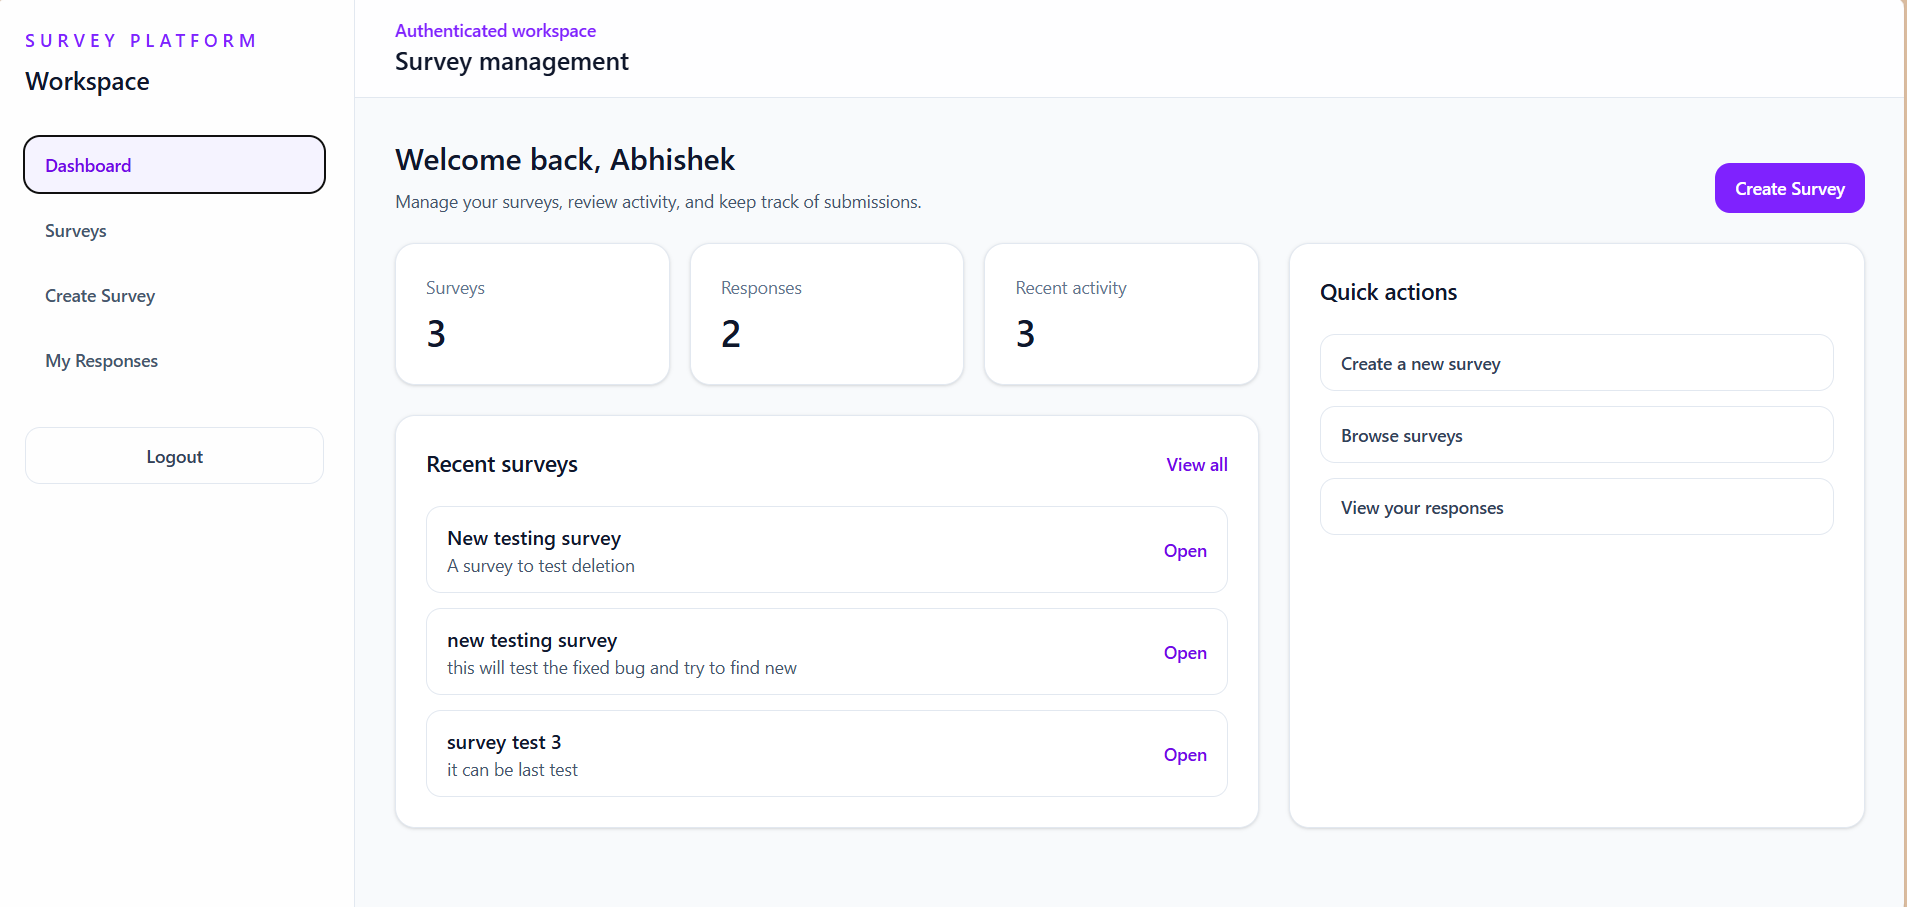
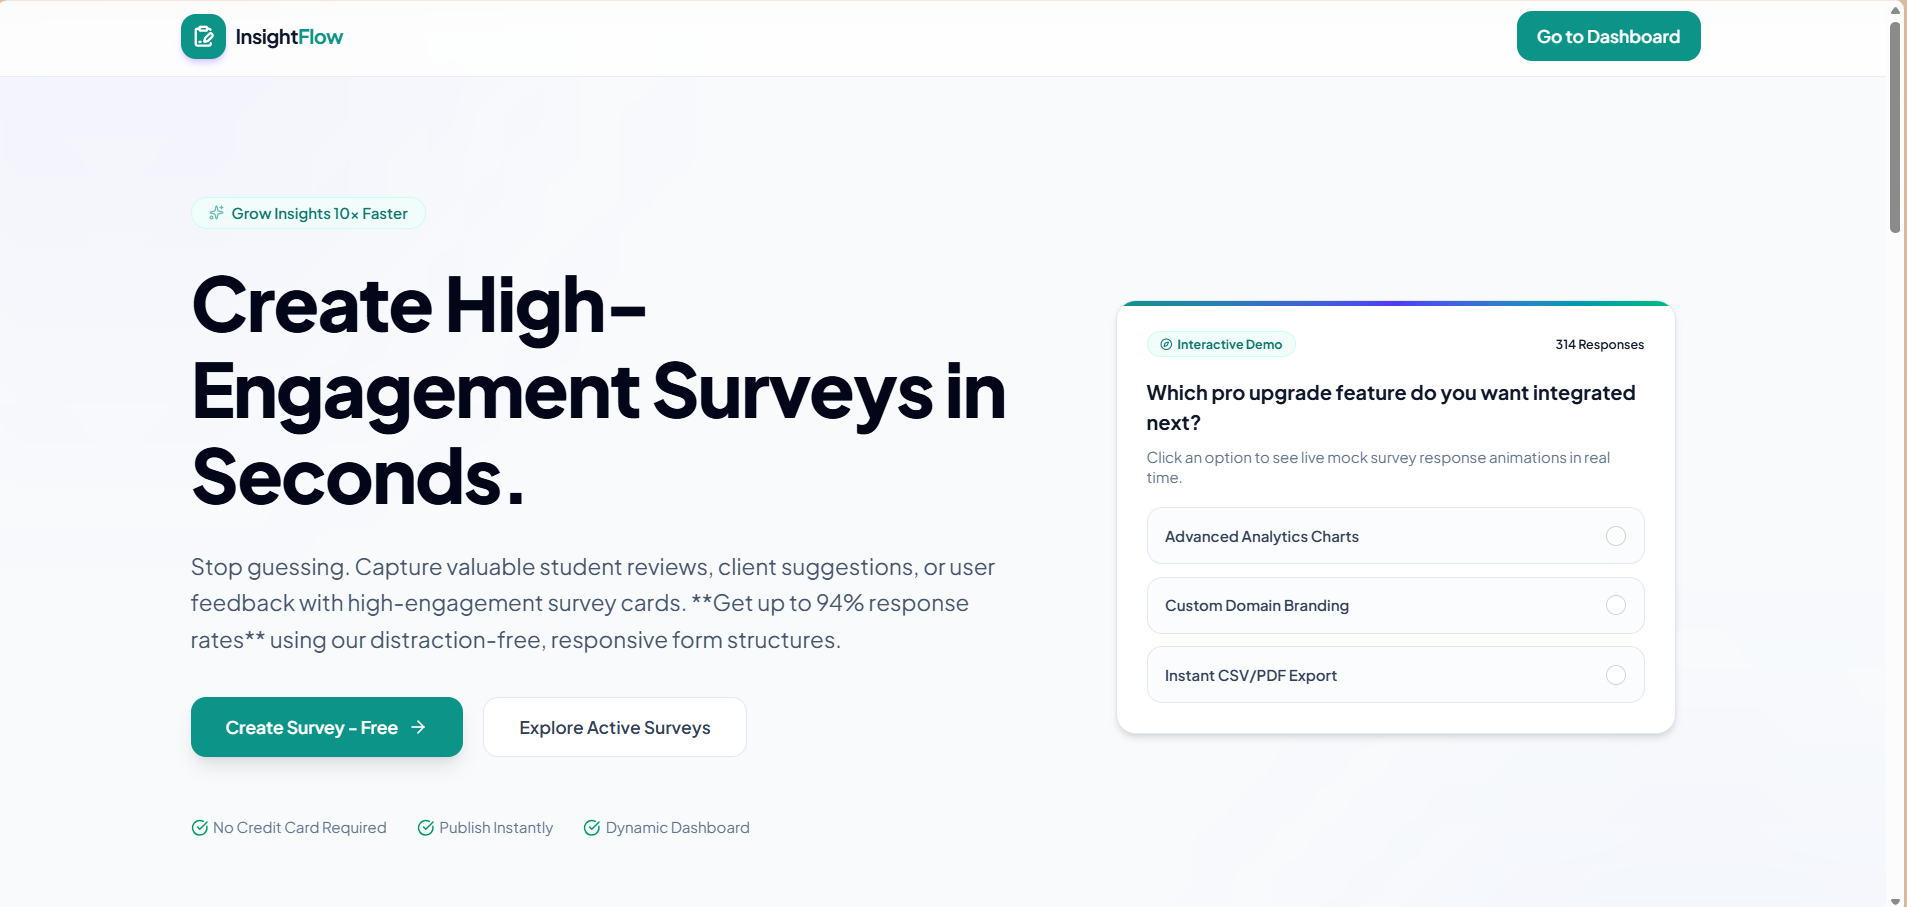
minor bug fixes

diff --git a/client/src/pages/organisation/ProfilePage.jsx b/client/src/pages/organisation/ProfilePage.jsx
@@ -5,6 +5,8 @@ import Input from '../../components/common/Input.jsx';
 import Card from '../../components/common/Card.jsx';
 import PageHeader from '../../components/common/PageHeader.jsx';
 import { User, Mail, Shield, Award, BarChart3, LogOut, CheckCircle } from 'lucide-react';
+import { getSurveys } from '../../services/surveyService.js';
+import { getMyResponses } from '../../services/responseService.js';
 
 const ProfilePage = () => {
   const { user, logout } = useAuth();
@@ -20,14 +22,28 @@ const ProfilePage = () => {
   const [passError, setPassError] = useState('');
 
   useEffect(() => {
-    // Load local stats
-    const surveys = JSON.parse(localStorage.getItem('mock_db_surveys') || '[]');
-    const responses = JSON.parse(localStorage.getItem('mock_db_responses') || '[]');
+    const fetchStats = async () => {
+      try {
+        const [surveyData, responseData] = await Promise.all([
+          getSurveys(),
+          getMyResponses()
+        ]);
+        
+        const surveysList = surveyData.surveys || [];
+        const responsesList = responseData.responses || [];
+        
+        const createdCount = surveysList.filter(s => s.createdBy === user?.id || s.createdBy === 'usr_default123').length;
+        const completedCount = responsesList.length;
+        
+        setStats({ created: createdCount, completed: completedCount });
+      } catch (err) {
+        console.error('Error fetching profile stats:', err);
+      }
+    };
     
-    const createdCount = surveys.filter(s => s.createdBy === user?.id || s.createdBy === 'usr_default123').length;
-    const completedCount = responses.filter(r => r.respondent === user?.id).length;
-    
-    setStats({ created: createdCount, completed: completedCount });
+    if (user) {
+      fetchStats();
+    }
   }, [user]);
 
   const handleUpdateInfo = (e) => {

diff --git a/client/src/components/common/Button.jsx b/client/src/components/common/Button.jsx
@@ -7,7 +7,7 @@ const Button = ({ children, variant = 'primary', className = '', ...props }) => 
   };
 
   return (
-    <button className={`${base} ${variants[variant]} ${className}`} {...props}>
+    <button className={`${base} ${variants[variant] || ''} ${className}`} {...props}>
       {children}
     </button>
   );

diff --git a/client/src/pages/organisation/DashboardPage.jsx b/client/src/pages/organisation/DashboardPage.jsx
@@ -95,7 +95,7 @@ const DashboardPage = () => {
         </div>
         <div className="shrink-0">
           <Link to="/surveys/create">
-            <Button className="bg-white text-violet-700 hover:bg-slate-50 font-bold shadow-md shadow-violet-950/20">
+            <Button variant="custom" className="bg-white text-black hover:bg-violet-700 hover:text-white font-bold shadow-md shadow-violet-950/20">
               <PlusCircle size={16} className="mr-2" />
               New Survey
             </Button>